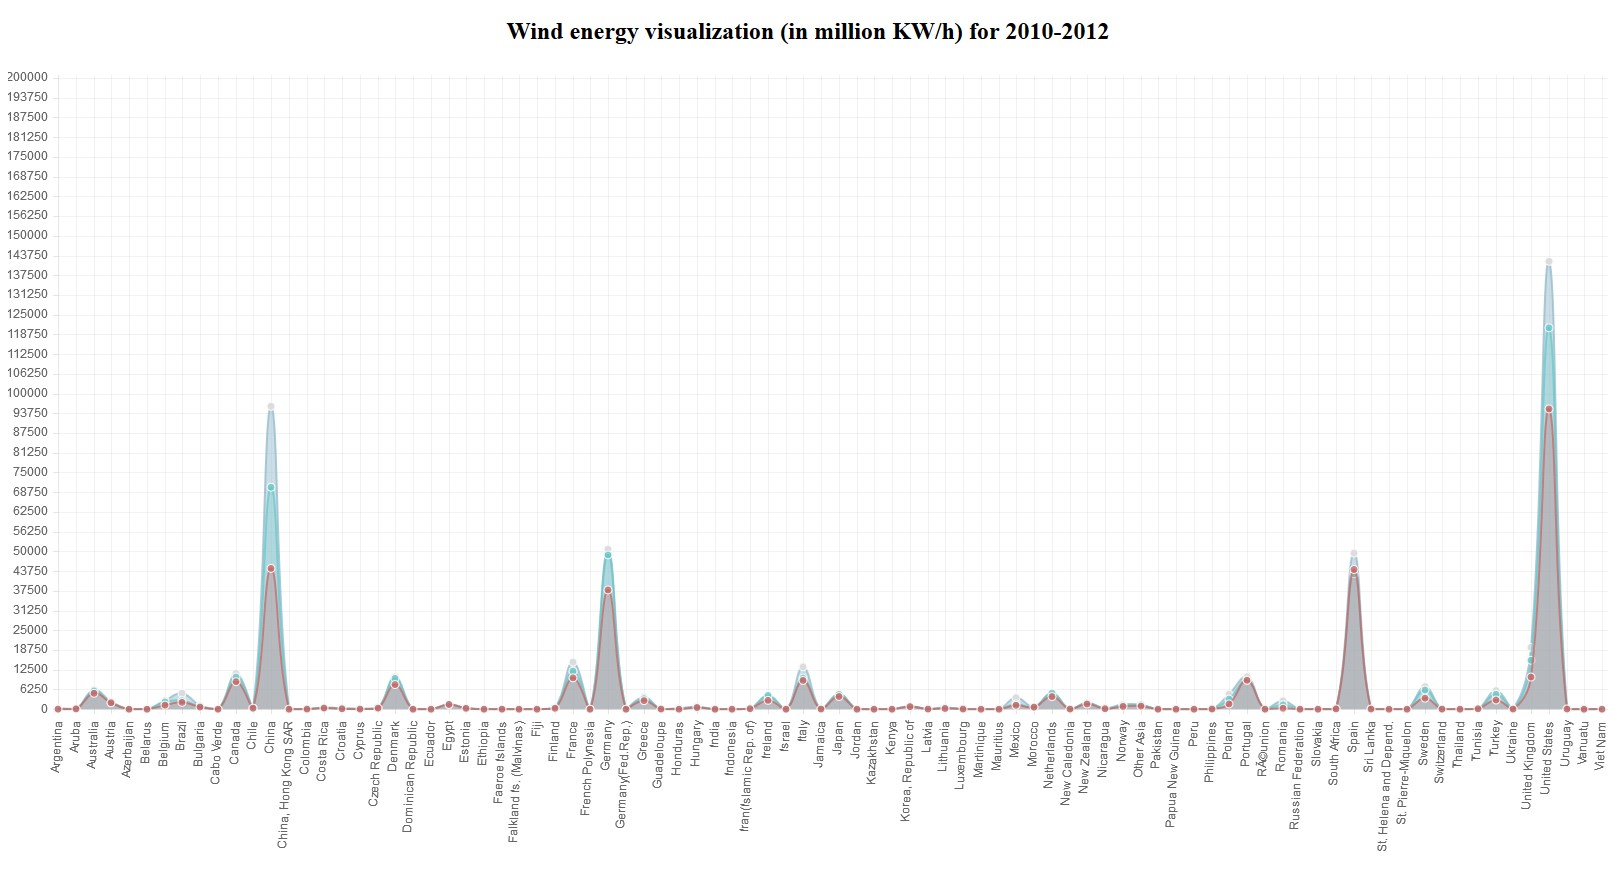
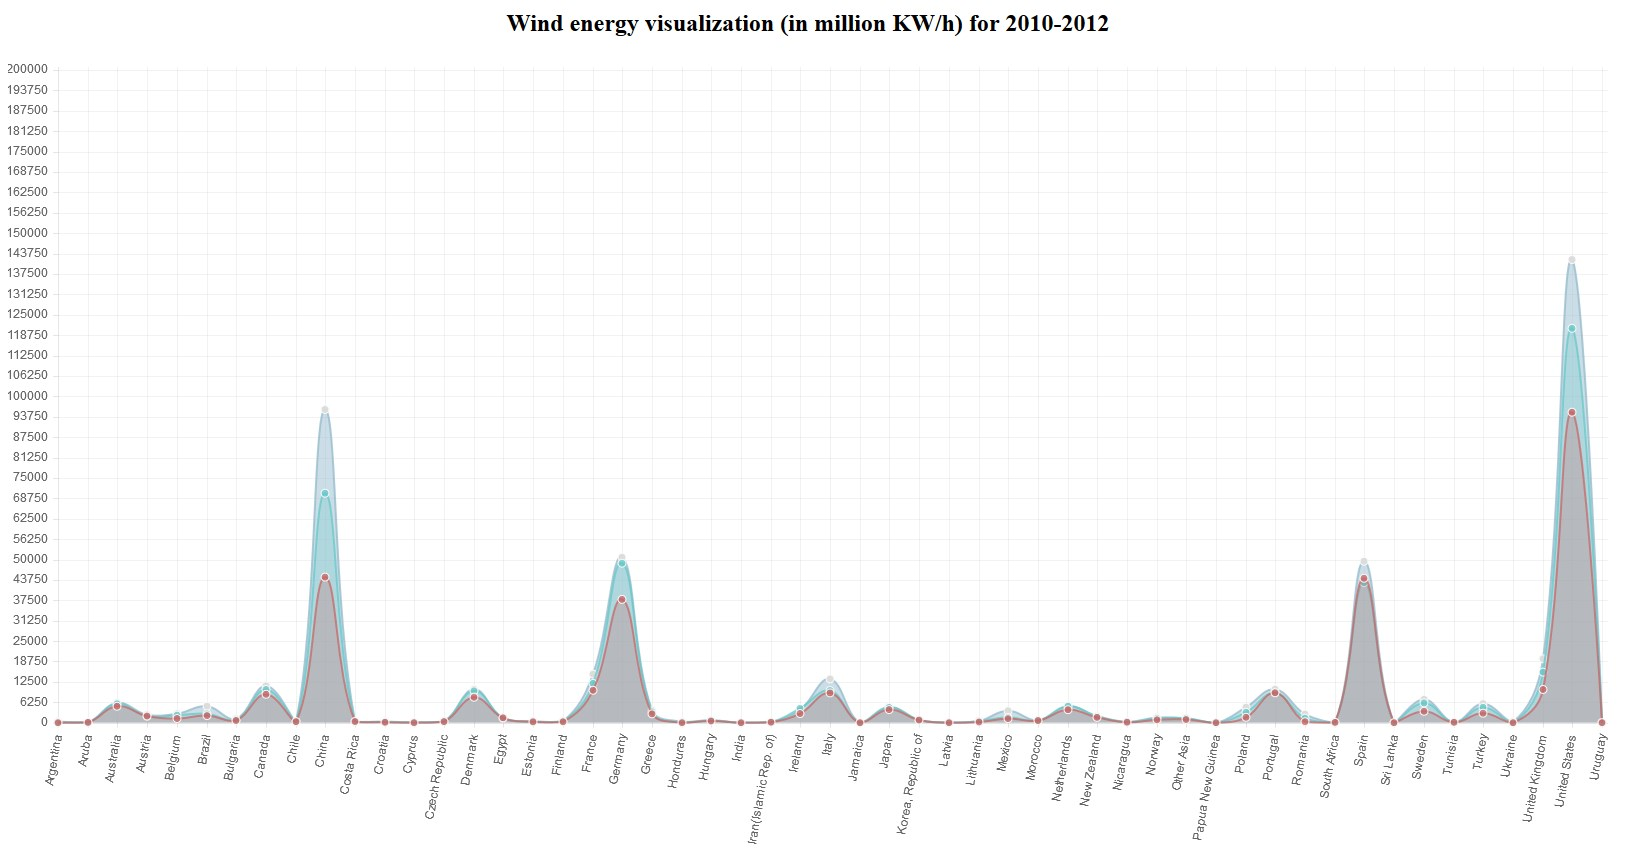
Reduced sample size

Changed region(s): [[0.0, 0.0604, 1.0, 0.9663], [0.3083, 0.0, 0.6782, 0.0604], [0.3083, 0.9361, 0.3391, 0.9663]]

diff --git a/sample.html b/sample.html
@@ -24,8 +24,8 @@
 			<script>
 				var chart_data = 
 				{
-					labels: ['Argentina', 'Aruba', 'Australia', 'Austria', 'Azerbaijan', 'Belarus', 'Belgium', 'Brazil', 'Bulgaria', 'Cabo Verde', 'Canada', 'Chile', 'China', 'China, Hong Kong SAR', 'Colombia', 'Costa Rica', 'Croatia', 'Cyprus', 'Czech Republic', 'Denmark', 'Dominican Republic', 'Ecuador', 'Egypt', 'Estonia', 'Ethiopia', 'Faeroe Islands', 'Falkland Is. (Malvinas)', 'Fiji', 'Finland', 'France', 'French Polynesia', 'Germany', 'Germany(Fed.Rep.)', 'Greece', 'Guadeloupe', 'Honduras', 'Hungary', 'India', 'Indonesia', 'Iran(Islamic Rep. of)', 'Ireland', 'Israel', 'Italy', 'Jamaica', 'Japan', 'Jordan', 'Kazakhstan', 'Kenya', 'Korea, Republic of', 'Latvia', 'Lithuania', 'Luxembourg', 'Martinique', 'Mauritius', 'Mexico', 'Morocco', 'Netherlands', 'New Caledonia', 'New Zealand', 'Nicaragua', 'Norway', 'Other Asia', 'Pakistan', 'Papua New Guinea', 'Peru', 'Philippines', 'Poland', 'Portugal', 'Réunion', 'Romania', 'Russian Federation', 'Slovakia', 'South Africa', 'Spain', 'Sri Lanka', 'St. Helena and Depend.', 'St. Pierre-Miquelon', 'Sweden', 'Switzerland', 'Thailand', 'Tunisia', 'Turkey', 'Ukraine', 'United Kingdom', 'United States', 'Uruguay', 'Vanuatu', 'Viet Nam'],
-					datasets: [{'highlightFill': 'rgba(151,187,205,0.75)', 'highlightStroke': 'rgba(151,187,205,1)', 'pointColor': 'rgba(220,220,220,1)', 'pointHighlightFill': 'rgba(250,250,250,1)', 'fillColor': 'rgba(151,187,205,0.5)', 'pointStrokeColor': 'rgba(250,250,250,1)', 'data': [369.0, 136.4, 6113.0, 2463.0, 0.0, 6.0, 2750.0, 5050.0, 1221.0, 61.4, 11310.0, 409.0, 95978.0, 2.0, 55.0, 528.383333333333, 329.0, 185.0, 416.0, 10270.0, 95.82, 2.0, 1260.0, 434.0, 29.0, 10.787, 5.69, 6.809, 494.0, 14913.0, 0.411, 50670.0, 0, 3850.0, 54.0, 338.0, 770.0, 0, 0.0, 207.0, 4010.0, 6.0, 13407.0, 108.0, 4838.0, 3.0, 3.0, 15.0, 917.0, 114.0, 540.0, 75.0, 1.665, 3.6, 3644.0, 728.0, 4982.0, 57.121, 2074.0, 330.0, 1556.0, 1262.0, 0, 0, 1.0, 75.3, 4747.0, 10259.0, 18.6, 2640.0, 5.0, 6.0, 103.0, 49472.0, 146.806, 0.6, 0.87, 7165.0, 88.0, 3.0, 196.0, 5860.0, 288.0, 19584.0, 141922.0, 115.1, 2.9, 90.0], 'strokeColor': 'rgba(151,187,205,0.8)', 'pointHighlightStroke': 'rgba(220,220,220,1)'}, {'highlightFill': 'rgba(151,187,205,0.75)', 'highlightStroke': 'rgba(151,187,205,1)', 'pointColor': 'rgba(100,200,200,0.75)', 'pointHighlightFill': 'rgba(250,250,250,1)', 'fillColor': 'rgba(100,200,200,0.25)', 'pointStrokeColor': 'rgba(250,250,250,1)', 'data': [26.0, 112.6, 5807.0, 1934.0, 0.0, 1.0, 2312.0, 2705.0, 861.0, 15.61, 10187.0, 338.0, 70331.0, 2.0, 41.0, 414.475, 201.0, 114.0, 397.0, 9774.0, 13.99, 3.0, 1525.0, 368.0, 0, 14.526, 5.67, 4.977, 481.0, 12052.0, 0.396, 48883.0, 0, 3315.0, 53.0, 117.0, 626.0, 0, 0.0, 217.0, 4380.0, 7.0, 9856.0, 91.9, 4677.0, 3.0, 0.0, 15.0, 863.0, 71.0, 475.0, 64.0, 1.665, 2.8, 1648.0, 692.0, 5100.0, 45.511, 1952.0, 211.0, 1283.0, 1371.0, 0, 0, 1.0, 88.2, 3205.0, 9161.0, 11.6, 1388.0, 5.0, 5.0, 103.0, 42918.0, 91.606, 0.6, 1.13, 6078.0, 70.0, 3.0, 109.0, 4723.0, 89.0, 15509.0, 120854.0, 109.7, 5.0, 87.0], 'strokeColor': 'rgba(100,200,200,0.75)', 'pointHighlightStroke': 'rgba(220,220,220,1)'}, {'highlightFill': 'rgba(151,187,205,0.75)', 'highlightStroke': 'rgba(151,187,205,1)', 'pointColor': 'rgba(200,100,100,0.75)', 'pointHighlightFill': 'rgba(250,250,250,1)', 'fillColor': 'rgba(200,100,100,0.25)', 'pointStrokeColor': 'rgba(250,250,250,1)', 'data': [25.0, 106.5, 5052.0, 2064.0, 1.0, 1.0, 1292.0, 2177.0, 681.0, 1.992, 8724.0, 332.0, 44622.0, 1.0, 39.0, 358.675, 139.0, 31.0, 335.0, 7809.0, 0, 3.0, 1498.0, 277.0, 0, 13.584, 5.65, 6.42, 294.0, 9942.0, 0.4, 37793.0, 0, 2714.0, 54.0, 0, 534.0, 0, 0.02, 163.0, 2815.0, 8.0, 9126.0, 53.2, 4017.0, 3.0, 0.0, 0.0, 817.0, 49.0, 224.0, 55.0, 1.665, 2.5, 1239.0, 659.0, 3993.0, 51.736, 1634.0, 163.0, 879.0, 976.0, 0, 0, 1.0, 61.7, 1664.0, 9182.0, 16.9, 306.0, 4.0, 6.0, 103.0, 44271.0, 53.206, 0.64, 1.05, 3502.0, 37.0, 3.0, 139.0, 2916.0, 50.0, 10184.0, 95148.0, 65.4, 5.17, 0], 'strokeColor': 'rgba(200,100,100,0.75)', 'pointHighlightStroke': 'rgba(220,220,220,1)'}]
+					labels: ['Argentina', 'Aruba', 'Australia', 'Austria', 'Belgium', 'Brazil', 'Bulgaria', 'Canada', 'Chile', 'China', 'Costa Rica', 'Croatia', 'Cyprus', 'Czech Republic', 'Denmark', 'Egypt', 'Estonia', 'Finland', 'France', 'Germany', 'Greece', 'Honduras', 'Hungary', 'India', 'Iran(Islamic Rep. of)', 'Ireland', 'Italy', 'Jamaica', 'Japan', 'Korea, Republic of', 'Latvia', 'Lithuania', 'Mexico', 'Morocco', 'Netherlands', 'New Zealand', 'Nicaragua', 'Norway', 'Other Asia', 'Papua New Guinea', 'Poland', 'Portugal', 'Romania', 'South Africa', 'Spain', 'Sri Lanka', 'Sweden', 'Tunisia', 'Turkey', 'Ukraine', 'United Kingdom', 'United States', 'Uruguay'],
+					datasets: [{'fillColor': 'rgba(151,187,205,0.5)', 'pointHighlightFill': 'rgba(250,250,250,1)', 'pointHighlightStroke': 'rgba(220,220,220,1)', 'strokeColor': 'rgba(151,187,205,0.8)', 'pointColor': 'rgba(220,220,220,1)', 'pointStrokeColor': 'rgba(250,250,250,1)', 'data': [369.0, 136.4, 6113.0, 2463.0, 2750.0, 5050.0, 1221.0, 11310.0, 409.0, 95978.0, 528.383333333333, 329.0, 185.0, 416.0, 10270.0, 1260.0, 434.0, 494.0, 14913.0, 50670.0, 3850.0, 338.0, 770.0, 0, 207.0, 4010.0, 13407.0, 108.0, 4838.0, 917.0, 114.0, 540.0, 3644.0, 728.0, 4982.0, 2074.0, 330.0, 1556.0, 1262.0, 0, 4747.0, 10259.0, 2640.0, 103.0, 49472.0, 146.806, 7165.0, 196.0, 5860.0, 288.0, 19584.0, 141922.0, 115.1], 'highlightFill': 'rgba(151,187,205,0.75)', 'highlightStroke': 'rgba(151,187,205,1)'}, {'fillColor': 'rgba(100,200,200,0.25)', 'pointHighlightFill': 'rgba(250,250,250,1)', 'pointHighlightStroke': 'rgba(220,220,220,1)', 'strokeColor': 'rgba(100,200,200,0.75)', 'pointColor': 'rgba(100,200,200,0.75)', 'pointStrokeColor': 'rgba(250,250,250,1)', 'data': [0, 112.6, 5807.0, 1934.0, 2312.0, 2705.0, 861.0, 10187.0, 338.0, 70331.0, 414.475, 201.0, 114.0, 397.0, 9774.0, 1525.0, 368.0, 481.0, 12052.0, 48883.0, 3315.0, 117.0, 626.0, 0, 217.0, 4380.0, 9856.0, 0, 4677.0, 863.0, 0, 475.0, 1648.0, 692.0, 5100.0, 1952.0, 211.0, 1283.0, 1371.0, 0, 3205.0, 9161.0, 1388.0, 103.0, 42918.0, 0, 6078.0, 109.0, 4723.0, 0, 15509.0, 120854.0, 109.7], 'highlightFill': 'rgba(151,187,205,0.75)', 'highlightStroke': 'rgba(151,187,205,1)'}, {'fillColor': 'rgba(200,100,100,0.25)', 'pointHighlightFill': 'rgba(250,250,250,1)', 'pointHighlightStroke': 'rgba(220,220,220,1)', 'strokeColor': 'rgba(200,100,100,0.75)', 'pointColor': 'rgba(200,100,100,0.75)', 'pointStrokeColor': 'rgba(250,250,250,1)', 'data': [0, 106.5, 5052.0, 2064.0, 1292.0, 2177.0, 681.0, 8724.0, 332.0, 44622.0, 358.675, 139.0, 0, 335.0, 7809.0, 1498.0, 277.0, 294.0, 9942.0, 37793.0, 2714.0, 0, 534.0, 0, 163.0, 2815.0, 9126.0, 0, 4017.0, 817.0, 0, 224.0, 1239.0, 659.0, 3993.0, 1634.0, 163.0, 879.0, 976.0, 0, 1664.0, 9182.0, 306.0, 103.0, 44271.0, 0, 3502.0, 139.0, 2916.0, 0, 10184.0, 95148.0, 0], 'highlightFill': 'rgba(151,187,205,0.75)', 'highlightStroke': 'rgba(151,187,205,1)'}]
 				}
 				window.onload = function()
 				{

diff --git a/sample.py b/sample.py
@@ -23,7 +23,7 @@ next(data) # Skip headers
 
 # Iterate through the file, then add datasets every time the country name changes
 for line in data:
-	if len(line) > 4:
+	if len(line) > 4 and float(line[4]) > 100:
 		if line[0] not in countries:
 			# Place the values of the last country in our lists
 			if countries != []:
